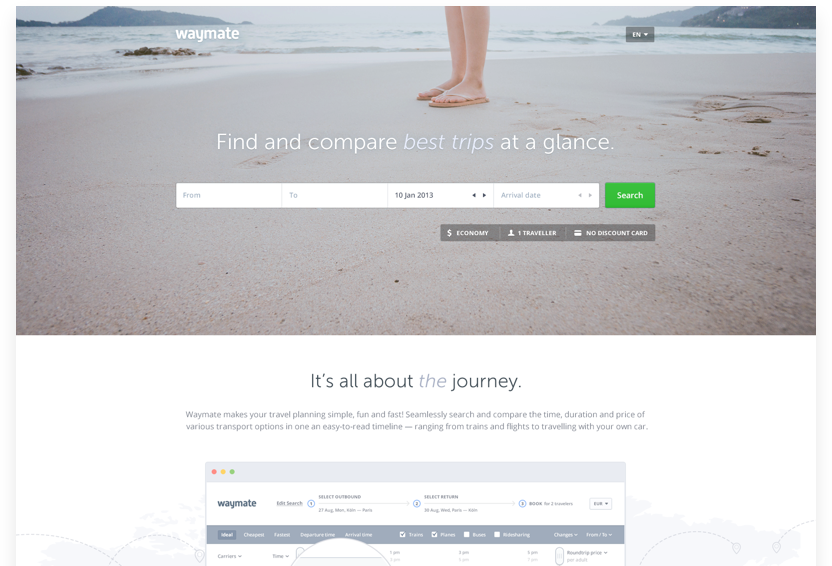
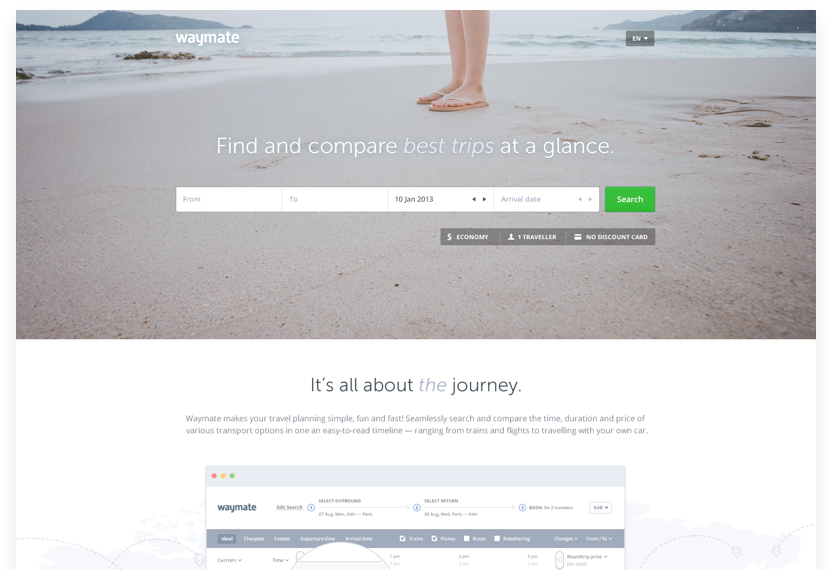
further improvements

diff --git a/src/application.css b/src/application.css
@@ -1,1 +1,1 @@
-.navbar__container,.section__container{max-width:1240px;margin:0 auto;padding:0 20px}/*! normalize.css v3.0.3 | MIT License | github.com/necolas/normalize.css */html{font-family:sans-serif;-ms-text-size-adjust:100%;-webkit-text-size-adjust:100%}body{margin:0}article,aside,details,figcaption,figure,footer,header,hgroup,main,menu,nav,section,summary{display:block}audio,canvas,progress,video{display:inline-block;vertical-align:baseline}audio:not([controls]){display:none;height:0}[hidden],template{display:none}a{background-color:transparent}a:active,a:hover{outline:0}abbr[title]{border-bottom:1px dotted}b,strong{font-weight:bold}dfn{font-style:italic}h1{font-size:2em;margin:0.67em 0}mark{background:#ff0;color:#000}small{font-size:80%}sub,sup{font-size:75%;line-height:0;position:relative;vertical-align:baseline}sup{top:-0.5em}sub{bottom:-0.25em}img{border:0}svg:not(:root){overflow:hidden}figure{margin:1em 40px}hr{box-sizing:content-box;height:0}pre{overflow:auto}code,kbd,pre,samp{font-family:monospace, monospace;font-size:1em}button,input,optgroup,select,textarea{color:inherit;font:inherit;margin:0}button{overflow:visible}button,select{text-transform:none}button,html input[type="button"],input[type="reset"],input[type="submit"]{-webkit-appearance:button;cursor:pointer}button[disabled],html input[disabled]{cursor:default}button::-moz-focus-inner,input::-moz-focus-inner{border:0;padding:0}input{line-height:normal}input[type="checkbox"],input[type="radio"]{box-sizing:border-box;padding:0}input[type="number"]::-webkit-inner-spin-button,input[type="number"]::-webkit-outer-spin-button{height:auto}input[type="search"]{-webkit-appearance:textfield;box-sizing:content-box}input[type="search"]::-webkit-search-cancel-button,input[type="search"]::-webkit-search-decoration{-webkit-appearance:none}fieldset{border:1px solid #c0c0c0;margin:0 2px;padding:0.35em 0.625em 0.75em}legend{border:0;padding:0}textarea{overflow:auto}optgroup{font-weight:bold}table{border-collapse:collapse;border-spacing:0}td,th{padding:0}body{font:18px "Abel",sans-serif;color:#fff;background:#96b1bb}p{margin:0}a{color:#fff;text-decoration:none}.navbar{position:absolute;top:50px;left:0;width:100%;text-transform:uppercase;font-size:16px}.navbar__brand{float:left}.navbar__nav{float:right}.navbar__menu{list-style:none;padding:0;margin:0}.navbar__menu-item{display:inline-block;vertical-align:top;padding-left:60px}.navbar__menu-item:first-child{padding-left:0}.section__container{box-sizing:border-box;padding:60px 0;min-height:600px;position:relative}.section__image{position:absolute;right:0;bottom:0;max-width:70%}.section__title{margin:0;padding:0;font-weight:normal;font-size:22px}.section__footer-link{font-size:14px;font-weight:300;font-family:"Merriweather",serif;position:relative}.section__footer-link:after{content:'';position:absolute;bottom:-6px;left:0;width:40px;height:2px;background:#ee3769}.section--intro .section__container{padding-top:160px}.section--intro .section__title{max-width:70%;font-size:80px;font-family:"Merriweather",serif;letter-spacing:2px;line-height:1.125}.section--project-wimdu,.section--project-soundcloud,.section--project-waymate,.section--contact,.section--blog,.section--base{background-position:50% 50%;background-repeat:no-repeat;background-size:cover}.section--project-wimdu .section__title,.section--project-soundcloud .section__title,.section--project-waymate .section__title,.section--contact .section__title,.section--blog .section__title,.section--project-wimdu .section__body,.section--project-soundcloud .section__body,.section--project-waymate .section__body,.section--contact .section__body,.section--blog .section__body,.section--base .section__title,.section--base .section__body{margin-bottom:30px}.section--project-wimdu .section__body,.section--project-soundcloud .section__body,.section--project-waymate .section__body,.section--contact .section__body,.section--blog .section__body,.section--base .section__body{max-width:440px;letter-spacing:.5px;line-height:1.25}.section--project-wimdu{background-image:url("images/project-bg-wimdu.jpg");background-color:#006cb7}.section--project-soundcloud{background-color:#fff;color:#373f52}.section--project-soundcloud .section__footer-link{color:#373f52}.section--project-waymate{background-image:url("images/project-bg-waymate.jpg");background-color:#b4c1d1}.section--project-waymate .section__image{right:-100px}.section--contact{background-color:#fff;color:#373f52}.section--contact .section__footer-link{color:#373f52}.section--blog{background-image:url("images/blog-bg.jpg")}.section--blog .section__body{max-width:70%;font:80px "Merriweather",serif;letter-spacing:2px;line-height:1.125}
+.navbar__container,.section__container{max-width:1240px;margin:0 auto;padding:0 20px}/*! normalize.css v3.0.3 | MIT License | github.com/necolas/normalize.css */html{font-family:sans-serif;-ms-text-size-adjust:100%;-webkit-text-size-adjust:100%}body{margin:0}article,aside,details,figcaption,figure,footer,header,hgroup,main,menu,nav,section,summary{display:block}audio,canvas,progress,video{display:inline-block;vertical-align:baseline}audio:not([controls]){display:none;height:0}[hidden],template{display:none}a{background-color:transparent}a:active,a:hover{outline:0}abbr[title]{border-bottom:1px dotted}b,strong{font-weight:bold}dfn{font-style:italic}h1{font-size:2em;margin:0.67em 0}mark{background:#ff0;color:#000}small{font-size:80%}sub,sup{font-size:75%;line-height:0;position:relative;vertical-align:baseline}sup{top:-0.5em}sub{bottom:-0.25em}img{border:0}svg:not(:root){overflow:hidden}figure{margin:1em 40px}hr{box-sizing:content-box;height:0}pre{overflow:auto}code,kbd,pre,samp{font-family:monospace, monospace;font-size:1em}button,input,optgroup,select,textarea{color:inherit;font:inherit;margin:0}button{overflow:visible}button,select{text-transform:none}button,html input[type="button"],input[type="reset"],input[type="submit"]{-webkit-appearance:button;cursor:pointer}button[disabled],html input[disabled]{cursor:default}button::-moz-focus-inner,input::-moz-focus-inner{border:0;padding:0}input{line-height:normal}input[type="checkbox"],input[type="radio"]{box-sizing:border-box;padding:0}input[type="number"]::-webkit-inner-spin-button,input[type="number"]::-webkit-outer-spin-button{height:auto}input[type="search"]{-webkit-appearance:textfield;box-sizing:content-box}input[type="search"]::-webkit-search-cancel-button,input[type="search"]::-webkit-search-decoration{-webkit-appearance:none}fieldset{border:1px solid #c0c0c0;margin:0 2px;padding:0.35em 0.625em 0.75em}legend{border:0;padding:0}textarea{overflow:auto}optgroup{font-weight:bold}table{border-collapse:collapse;border-spacing:0}td,th{padding:0}body{font:18px "Abel",sans-serif;color:#fff;background:#96b1bb;text-shadow:0 1px 2px rgba(0,0,0,0.1);text-rendering:optimizeLegibility;-webkit-font-smoothing:antialiased}p{margin:0}a{color:#fff;text-decoration:none}.navbar{z-index:10;position:absolute;top:50px;left:0;width:100%;text-transform:uppercase;font-size:16px}.navbar__container{box-sizing:border-box}.navbar__brand{float:left}.navbar__nav{float:right}.navbar__menu{list-style:none;padding:0;margin:0}.navbar__menu-item{display:inline-block;vertical-align:top;padding-left:60px}.navbar__menu-item:first-child{padding-left:0}.pagination{list-style:none;padding:0;margin:0}.pagination__item,.pagination__link{display:inline-block;vertical-align:middle}.pagination__item{padding:0 4px}.pagination__link{width:8px;height:8px;background:#ebecee;border-radius:100%}.pagination__link.is-active{background:#ee3769}.section{overflow:hidden}.section__container{box-sizing:border-box;padding-top:60px;padding-bottom:60px;min-height:700px;min-height:80vh;position:relative}.section__image{position:absolute;right:-100px;bottom:0;max-width:70%}.section__title{margin:0;padding:0;font-weight:normal;font-size:22px}.section__footer-link{font-size:14px;font-weight:300;font-family:"Merriweather",serif;position:relative}.section__footer-link:after{content:'';position:absolute;bottom:-8px;left:0;width:40px;height:2px;background:#ee3769;transition:width .3s}.section__footer-link:hover:after{width:100%}.section--intro{background-image:url("images/intro-bg.jpg");background-position:50% 50%;background-repeat:no-repeat;background-size:cover}.section--intro .section__container{padding-top:160px}.section--intro .section__title{max-width:70%;font-size:80px;font-family:"Merriweather",serif;letter-spacing:2px;line-height:1.125}.section--intro .section__footer-link{-moz-transform:translateX(-50%);-ms-transform:translateX(-50%);-webkit-transform:translateX(-50%);transform:translateX(-50%);position:absolute;bottom:30px;left:50%}.section--intro .section__footer-link:after{-moz-transform:translateX(-50%);-ms-transform:translateX(-50%);-webkit-transform:translateX(-50%);transform:translateX(-50%);left:50%}.section--project-wimdu,.section--project-soundcloud,.section--project-waymate,.section--contact,.section--blog,.section--base{background-position:50% 50%;background-repeat:no-repeat;background-size:cover}.section--project-wimdu .section__title,.section--project-soundcloud .section__title,.section--project-waymate .section__title,.section--contact .section__title,.section--blog .section__title,.section--project-wimdu .section__body,.section--project-soundcloud .section__body,.section--project-waymate .section__body,.section--contact .section__body,.section--blog .section__body,.section--base .section__title,.section--base .section__body{margin-bottom:30px}.section--project-wimdu .section__body,.section--project-soundcloud .section__body,.section--project-waymate .section__body,.section--contact .section__body,.section--blog .section__body,.section--base .section__body{max-width:440px;letter-spacing:.5px;line-height:1.25}.section--project-soundcloud,.section--contact,.section--light{background-color:#fff;color:#373f52;text-shadow:none}.section--project-soundcloud .section__footer-link,.section--contact .section__footer-link,.section--light .section__footer-link{color:#373f52}.section--project-wimdu{background-image:url("images/project-bg-wimdu.jpg");background-color:#006cb7}.section--project-waymate{background-image:url("images/project-bg-waymate.jpg");background-color:#b4c1d1}.section--blog{background-image:url("images/blog-bg.jpg")}.section--blog .section__body{max-width:70%;font:80px "Merriweather",serif;letter-spacing:2px;line-height:1.125}.testimonials{box-sizing:border-box;padding:50px 100px 0;width:600px;height:400px;text-align:center;border:1px solid rgba(55,63,82,0.1);position:absolute;right:20px;top:50px}.testimonials__image{display:block;margin:0 auto 25px;width:100px;height:100px}.testimonials__title,.testimonials__subtitle{padding:0;margin:0;font-weight:normal}.testimonials__title{font-family:"Merriweather",serif;margin-bottom:10px}.testimonials__subtitle{margin-bottom:20px}.testimonials__content{font-family:"Merriweather",serif;font-size:14px;line-height:1.5}.testimonials__pagination{position:absolute;bottom:40px;left:0;width:100%;text-align:center}

diff --git a/src/scss/modules/_sections.scss b/src/scss/modules/_sections.scss
@@ -1,17 +1,21 @@
 // --- sections ----------------------------------------------------------------
 
 .section {
+  overflow: hidden;
+
   &__container {
     @extend %container;
     box-sizing: border-box;
-    padding: 60px 0;
-    min-height: 600px;
+    padding-top: 60px;
+    padding-bottom: 60px;
+    min-height: 700px;
+    min-height: 80vh;
     position: relative;
   }
 
   &__image {
     position: absolute;
-    right: 0;
+    right: -100px;
     bottom: 0;
     max-width: 70%;
   }
@@ -32,11 +36,18 @@
     &:after {
       content: '';
       position: absolute;
-      bottom: -6px;
+      bottom: -8px;
       left: 0;
       width: 40px;
       height: 2px;
       background: $color-red;
+      transition: width .3s;
+    }
+
+    &:hover {
+      &:after {
+        width: 100%;
+      }
     }
   }
 }
@@ -44,6 +55,11 @@
 // --- sections: intro ---------------------------------------------------------
 
 .section--intro {
+  background-image: url('images/intro-bg.jpg');
+  background-position: 50% 50%;
+  background-repeat: no-repeat;
+  background-size: cover;
+
   .section__container {
     padding-top: 160px;
   }
@@ -55,9 +71,21 @@
     letter-spacing: 2px;
     line-height: 1.125;
   }
+
+  .section__footer-link {
+    @include translateX(-50%);
+    position: absolute;
+    bottom: 30px;
+    left: 50%;
+
+    &:after {
+      @include translateX(-50%);
+      left: 50%;
+    }
+  }
 }
 
-// --- sections: project -------------------------------------------------------
+// --- sections: base ----------------------------------------------------------
 
 %section--base,
 .section--base {
@@ -77,6 +105,19 @@
   }
 }
 
+// --- sections: base light ----------------------------------------------------
+
+%section--light,
+.section--light {
+  background-color: $color-white;
+  color: $color-black;
+  text-shadow: none;
+
+  .section__footer-link {
+    color: $color-black;
+  }
+}
+
 // --- sections: project-wimdu -------------------------------------------------
 
 .section--project-wimdu {
@@ -89,12 +130,7 @@
 
 .section--project-soundcloud {
   @extend %section--base;
-  background-color: $color-white;
-  color: $color-black;
-
-  .section__footer-link {
-    color: $color-black;
-  }
+  @extend %section--light;
 }
 
 // --- sections: project-waymate -----------------------------------------------
@@ -103,22 +139,13 @@
   @extend %section--base;
   background-image: url('images/project-bg-waymate.jpg');
   background-color: #b4c1d1;
-
-  .section__image {
-    right: -100px;
-  }
 }
 
 // --- sections: contact -------------------------------------------------------
 
 .section--contact {
   @extend %section--base;
-  background-color: $color-white;
-  color: $color-black;
-
-  .section__footer-link {
-    color: $color-black;
-  }
+  @extend %section--light;
 }
 
 // --- sections: blog ----------------------------------------------------------

diff --git a/src/index.html b/src/index.html
@@ -46,6 +46,10 @@
           <h1 class='section__title'>
             Product designer in pursuit of emotional intelligence
           </h1>
+
+          <div class='section__footer'>
+            <a href='#' class='section__footer-link'>Scroll along</a>
+          </div>
         </div>
       </section>
 
@@ -104,7 +108,34 @@
             <p>I’m always interested in new opportunities, big or small. Please don’t hesitate to get in touch with me regarding your project.</p>
           </div>
           <div class='section__footer'>
-            <a href='mailto:viktoria.leontieva@gmail.com' class='section__footer-link'>viktoria.leontieva@gmail.com</a>
+            <a href='mailto:viktoriia.leontieva@gmail.com' class='section__footer-link'>viktoriia.leontieva@gmail.com</a>
+          </div>
+
+          <div class='testimonials'>
+            <div class='testimonials__item'>
+              <img src='images/testimonials-kristy.png' class='testimonials__image' />
+              <h3 class='testimonials__title'>Kristy Lee</h3>
+              <h4 class='testimonials__subtitle'>Product Owner at Eyeem</h4>
+              <p class='testimonials__content'>
+                "Highly focused, Victoria holds her work to a high standard, ensuring that she delivers a well thought-through solution to any problem which is presented to her."
+              </p>
+            </div>
+            <div class='testimonials__pagination'>
+              <ul class='pagination'>
+                <li class='pagination__item'>
+                  <a href='#' class='pagination__link is-active'></a>
+                </li>
+                <li class='pagination__item'>
+                  <a href='#' class='pagination__link'></a>
+                </li>
+                <li class='pagination__item'>
+                  <a href='#' class='pagination__link'></a>
+                </li>
+                <li class='pagination__item'>
+                  <a href='#' class='pagination__link'></a>
+                </li>
+              </ul>
+            </div>
           </div>
         </div>
       </section>
@@ -124,6 +155,7 @@
       </section>
     </main>
 
+    <script type'text/javascript' src='application.js'></script>
     <script type'text/javascript'>
       (function(i, s, o, g, r, a, m) {
         i['GoogleAnalyticsObject'] = r;

diff --git a/src/scss/modules/_testimonials.scss b/src/scss/modules/_testimonials.scss
@@ -1,0 +1,50 @@
+// --- testimonials ------------------------------------------------------------
+
+.testimonials {
+  box-sizing: border-box;
+  padding: 50px 100px 0;
+  width: 600px;
+  height: 400px;
+  text-align: center;
+  border: 1px solid rgba($color-black, .1);
+  position: absolute;
+  right: 20px;
+  top: 50px;
+
+  &__image {
+    display: block;
+    margin: 0 auto 25px;
+    width: 100px;
+    height: 100px;
+  }
+
+  &__title,
+  &__subtitle {
+    padding: 0;
+    margin: 0;
+    font-weight: normal;
+  }
+
+  &__title {
+    font-family: $font-family-alternate;
+    margin-bottom: 10px;
+  }
+
+  &__subtitle {
+    margin-bottom: 20px;
+  }
+
+  &__content {
+    font-family: $font-family-alternate;
+    font-size: 14px;
+    line-height: 1.5;
+  }
+
+  &__pagination {
+    position: absolute;
+    bottom: 40px;
+    left: 0;
+    width: 100%;
+    text-align: center;
+  }
+}

diff --git a/src/scss/application.scss b/src/scss/application.scss
@@ -2,13 +2,19 @@
 
 @import 'base/variables';
 
+// --- base: pre ---------------------------------------------------------------
+
+@import 'base/mixins';
+@import 'base/placeholders';
+
 // --- base --------------------------------------------------------------------
 
-@import 'base/placeholders';
 @import 'base/normalize';
 @import 'base/core';
 
 // --- modules -----------------------------------------------------------------
 
 @import 'modules/navbar';
+@import 'modules/pagination';
 @import 'modules/sections';
+@import 'modules/testimonials';

diff --git a/src/application.js b/src/application.js
@@ -1,0 +1,4 @@
+(function e(t,n,r){function s(o,u){if(!n[o]){if(!t[o]){var a=typeof require=="function"&&require;if(!u&&a)return a(o,!0);if(i)return i(o,!0);var f=new Error("Cannot find module '"+o+"'");throw f.code="MODULE_NOT_FOUND",f}var l=n[o]={exports:{}};t[o][0].call(l.exports,function(e){var n=t[o][1][e];return s(n?n:e)},l,l.exports,e,t,n,r)}return n[o].exports}var i=typeof require=="function"&&require;for(var o=0;o<r.length;o++)s(r[o]);return s})({1:[function(require,module,exports){
+console.log('hello!');
+
+},{}]},{},[1]);

diff --git a/src/scss/base/_mixins.scss b/src/scss/base/_mixins.scss
@@ -1,2 +1,15 @@
 // --- mixins ------------------------------------------------------------------
 
+@mixin translateY($value) {
+  -moz-transform: translateY($value);
+  -ms-transform: translateY($value);
+  -webkit-transform: translateY($value);
+  transform: translateY($value);
+}
+
+@mixin translateX($value) {
+  -moz-transform: translateX($value);
+  -ms-transform: translateX($value);
+  -webkit-transform: translateX($value);
+  transform: translateX($value);
+}

diff --git a/src/scss/modules/_pagination.scss b/src/scss/modules/_pagination.scss
@@ -1,0 +1,28 @@
+// --- pagination --------------------------------------------------------------
+
+.pagination {
+  list-style: none;
+  padding: 0;
+  margin: 0;
+
+  &__item,
+  &__link {
+    display: inline-block;
+    vertical-align: middle;
+  }
+
+  &__item {
+    padding: 0 4px;
+  }
+
+  &__link {
+    width: 8px;
+    height: 8px;
+    background: #ebecee;
+    border-radius: 100%;
+
+    &.is-active {
+      background: $color-red;
+    }
+  }
+}

diff --git a/src/scss/modules/_navbar.scss b/src/scss/modules/_navbar.scss
@@ -1,6 +1,7 @@
 // --- navbar ------------------------------------------------------------------
 
 .navbar {
+  z-index: 10;
   position: absolute;
   top: 50px;
   left: 0;
@@ -10,6 +11,7 @@
 
   &__container {
     @extend %container;
+    box-sizing: border-box;
   }
 
   &__brand {

diff --git a/src/scss/base/_core.scss b/src/scss/base/_core.scss
@@ -4,6 +4,9 @@ body {
   font: 18px $font-family;
   color: $color-white;
   background: $color-primary;
+  text-shadow: 0 1px 2px rgba(#000, .1);
+  text-rendering: optimizeLegibility;
+  -webkit-font-smoothing: antialiased;
 }
 
 p {

diff --git a/src/scss/base/_placeholders.scss b/src/scss/base/_placeholders.scss
@@ -13,3 +13,9 @@
     display: table;
   }
 }
+
+%vertical-alignment {
+  @include translateY(-50%);
+  position: relative;
+  top: 50%;
+}

diff --git a/src/js/application.js b/src/js/application.js
@@ -1,0 +1,1 @@
+console.log('hello!');
